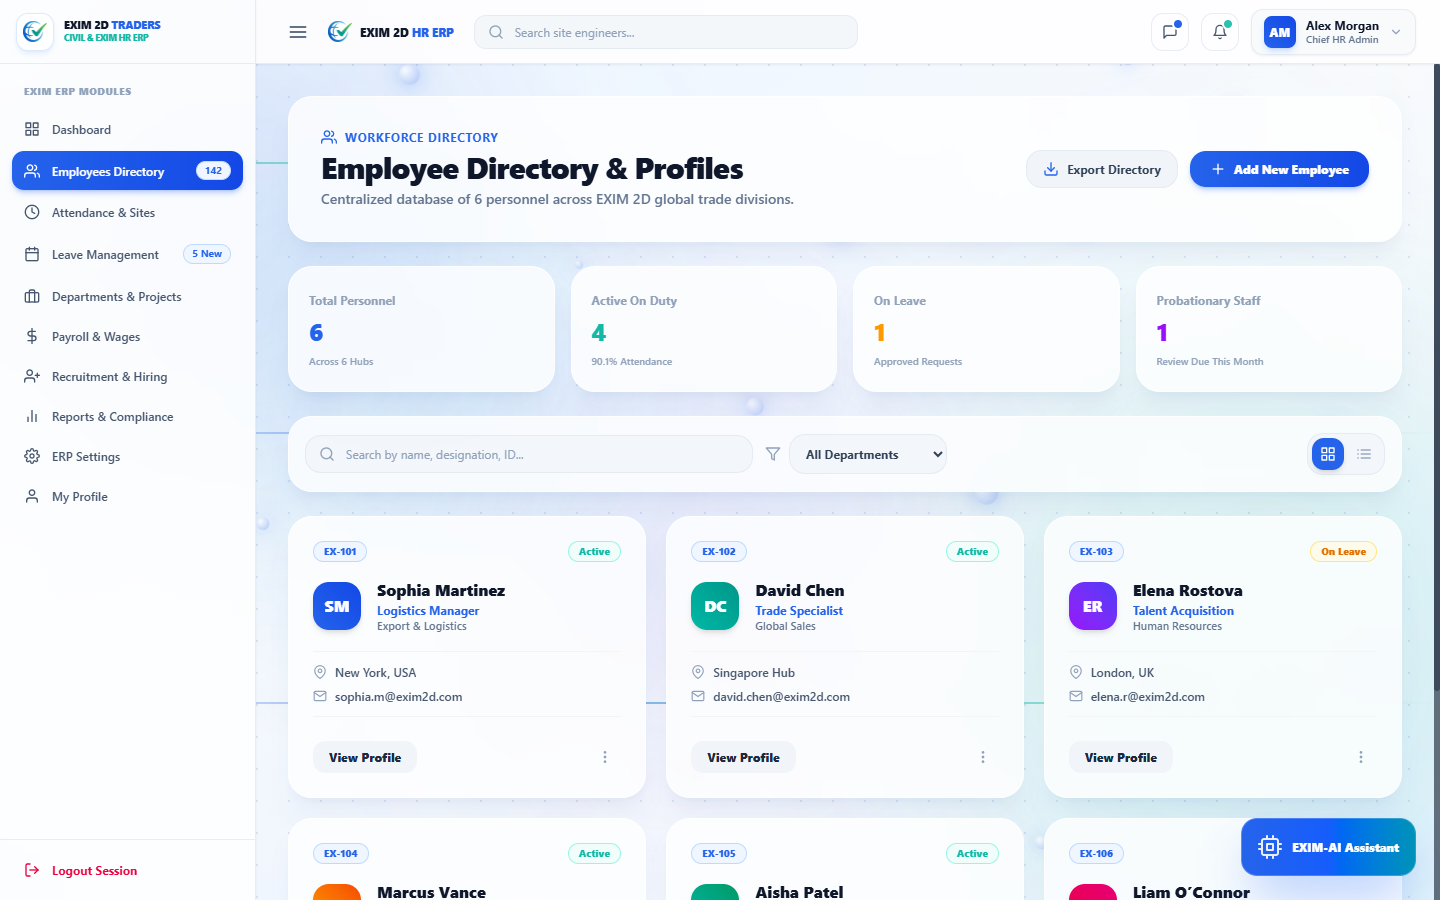
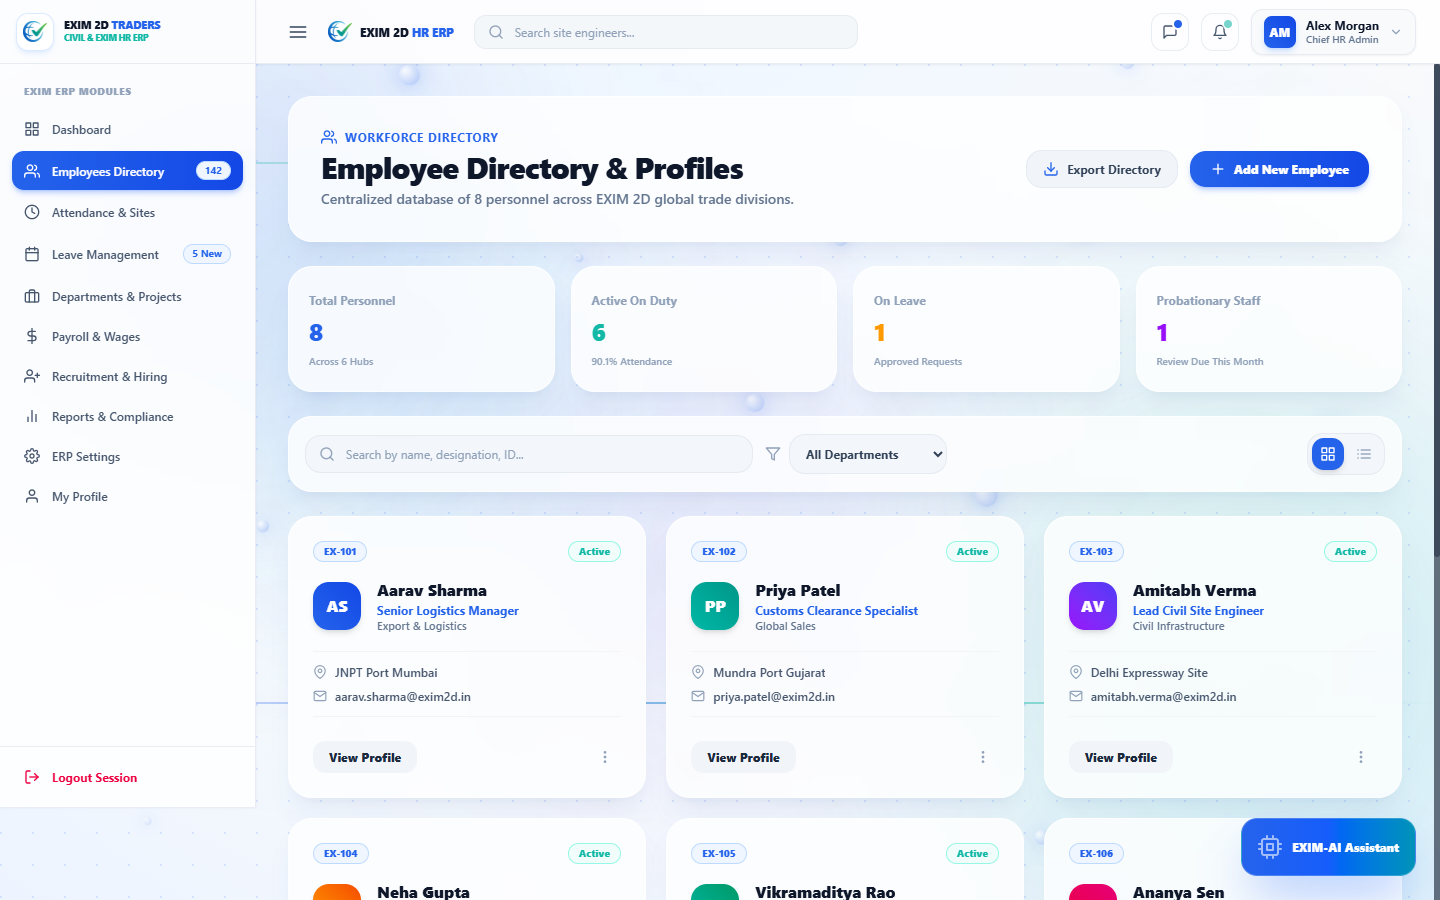
Update workforce records with Indian names and re-capture screenshots

diff --git a/src/pages/Employees.jsx b/src/pages/Employees.jsx
@@ -25,12 +25,14 @@ const Employees = () => {
   const [selectedEmployee, setSelectedEmployee] = useState(null);
 
   const [employeeList, setEmployeeList] = useState([
-    { id: 'EX-101', name: 'Sophia Martinez', role: 'Logistics Manager', dept: 'Export & Logistics', status: 'Active', location: 'New York, USA', email: 'sophia.m@exim2d.com', phone: '+1 555-0192', color: 'from-[#2563EB] to-blue-700' },
-    { id: 'EX-102', name: 'David Chen', role: 'Trade Specialist', dept: 'Global Sales', status: 'Active', location: 'Singapore Hub', email: 'david.chen@exim2d.com', phone: '+1 555-0183', color: 'from-[#14B8A6] to-teal-600' },
-    { id: 'EX-103', name: 'Elena Rostova', role: 'Talent Acquisition', dept: 'Human Resources', status: 'On Leave', location: 'London, UK', email: 'elena.r@exim2d.com', phone: '+1 555-0174', color: 'from-purple-600 to-indigo-600' },
-    { id: 'EX-104', name: 'Marcus Vance', role: 'Senior Accountant', dept: 'Finance & Accounts', status: 'Active', location: 'Dubai, UAE', email: 'marcus.v@exim2d.com', phone: '+1 555-0165', color: 'from-amber-500 to-orange-600' },
-    { id: 'EX-105', name: 'Aisha Patel', role: 'ERP System Analyst', dept: 'IT & Operations', status: 'Active', location: 'Mumbai, IN', email: 'aisha.p@exim2d.com', phone: '+1 555-0156', color: 'from-[#14B8A6] to-emerald-600' },
-    { id: 'EX-106', name: 'Liam O’Connor', role: 'Customs Clearance Specialist', dept: 'Export & Logistics', status: 'Probation', location: 'Rotterdam, NL', email: 'liam.oc@exim2d.com', phone: '+1 555-0147', color: 'from-rose-600 to-pink-600' },
+    { id: 'EX-101', name: 'Aarav Sharma', role: 'Senior Logistics Manager', dept: 'Export & Logistics', status: 'Active', location: 'JNPT Port Mumbai', email: 'aarav.sharma@exim2d.in', phone: '+91 98201 12345', color: 'from-[#2563EB] to-blue-700' },
+    { id: 'EX-102', name: 'Priya Patel', role: 'Customs Clearance Specialist', dept: 'Global Sales', status: 'Active', location: 'Mundra Port Gujarat', email: 'priya.patel@exim2d.in', phone: '+91 98791 23456', color: 'from-[#14B8A6] to-teal-600' },
+    { id: 'EX-103', name: 'Amitabh Verma', role: 'Lead Civil Site Engineer', dept: 'Civil Infrastructure', status: 'Active', location: 'Delhi Expressway Site', email: 'amitabh.verma@exim2d.in', phone: '+91 99102 34567', color: 'from-purple-600 to-indigo-600' },
+    { id: 'EX-104', name: 'Neha Gupta', role: 'Talent Acquisition Lead', dept: 'Human Resources', status: 'Active', location: 'Corporate HQ Delhi', email: 'neha.gupta@exim2d.in', phone: '+91 98113 45678', color: 'from-amber-500 to-orange-600' },
+    { id: 'EX-105', name: 'Vikramaditya Rao', role: 'Marine Freight Lead', dept: 'Export & Logistics', status: 'Active', location: 'Chennai Port Hub', email: 'vikram.rao@exim2d.in', phone: '+91 94440 56789', color: 'from-[#14B8A6] to-emerald-600' },
+    { id: 'EX-106', name: 'Ananya Sen', role: 'Senior Payroll Auditor', dept: 'Finance & Accounts', status: 'On Leave', location: 'Kolkata Logistics Hub', email: 'ananya.sen@exim2d.in', phone: '+91 98300 67890', color: 'from-rose-600 to-pink-600' },
+    { id: 'EX-107', name: 'Rohan Joshi', role: 'ERP Full-Stack Analyst', dept: 'IT & Operations', status: 'Active', location: 'Bengaluru Tech Hub', email: 'rohan.joshi@exim2d.in', phone: '+91 98220 78901', color: 'from-[#2563EB] to-cyan-600' },
+    { id: 'EX-108', name: 'Sneha Iyer', role: 'Structural Safety Inspector', dept: 'Civil Infrastructure', status: 'Probation', location: 'Kochi Terminal', email: 'sneha.iyer@exim2d.in', phone: '+91 94480 89012', color: 'from-teal-600 to-emerald-600' },
   ]);
 
   const [newEmpForm, setNewEmpForm] = useState({

diff --git a/src/pages/employee/CompanyDirectory.jsx b/src/pages/employee/CompanyDirectory.jsx
@@ -6,11 +6,11 @@ const CompanyDirectory = () => {
   const [searchTerm, setSearchTerm] = useState('');
 
   const colleagues = [
-    { name: 'Alex Morgan', role: 'Chief HR Admin', dept: 'Human Resources', location: 'New York HQ', email: 'alex.morgan@exim2d.com', phone: '+1 555-0199', avatar: 'AM', color: 'from-[#2563EB] to-blue-700' },
-    { name: 'David Chen', role: 'Senior Civil Site Engineer', dept: 'Civil Engineering', location: 'Singapore Hub', email: 'david.chen@exim2d.com', phone: '+1 555-0183', avatar: 'DC', color: 'from-[#14B8A6] to-teal-600' },
-    { name: 'Elena Rostova', role: 'Safety Compliance Officer', dept: 'Human Resources', location: 'London, UK', email: 'elena.r@exim2d.com', phone: '+1 555-0174', avatar: 'ER', color: 'from-purple-600 to-indigo-600' },
-    { name: 'Marcus Vance', role: 'Equipment Fleet Accountant', dept: 'Finance & Procurement', location: 'Dubai, UAE', email: 'marcus.v@exim2d.com', phone: '+1 555-0165', avatar: 'MV', color: 'from-amber-500 to-orange-600' },
-    { name: 'Aisha Patel', role: 'ERP System Analyst', dept: 'IT Operations', location: 'Mumbai, IN', email: 'aisha.p@exim2d.com', phone: '+1 555-0156', avatar: 'AP', color: 'from-[#14B8A6] to-emerald-600' },
+    { name: 'Aarav Sharma', role: 'Senior Port Logistics Manager', dept: 'Export & Logistics', location: 'JNPT Port Mumbai', email: 'aarav.sharma@exim2d.in', phone: '+91 98201 12345', avatar: 'AS', color: 'from-[#2563EB] to-blue-700' },
+    { name: 'Priya Patel', role: 'Customs Clearance Specialist', dept: 'Global Trade & Customs', location: 'Mundra Port Gujarat', email: 'priya.patel@exim2d.in', phone: '+91 98791 23456', avatar: 'PP', color: 'from-[#14B8A6] to-teal-600' },
+    { name: 'Amitabh Verma', role: 'Lead Civil Site Engineer', dept: 'Civil Infrastructure', location: 'Delhi Expressway Site', email: 'amitabh.verma@exim2d.in', phone: '+91 99102 34567', avatar: 'AV', color: 'from-purple-600 to-indigo-600' },
+    { name: 'Neha Gupta', role: 'Talent Acquisition Lead', dept: 'Human Resources', location: 'Corporate HQ Delhi', email: 'neha.gupta@exim2d.in', phone: '+91 98113 45678', avatar: 'NG', color: 'from-amber-500 to-orange-600' },
+    { name: 'Rohan Joshi', role: 'ERP Full-Stack Analyst', dept: 'IT & Systems', location: 'Bengaluru Tech Hub', email: 'rohan.joshi@exim2d.in', phone: '+91 98220 78901', avatar: 'RJ', color: 'from-[#14B8A6] to-emerald-600' },
   ];
 
   const filtered = colleagues.filter(c =>

diff --git a/src/pages/Attendance.jsx b/src/pages/Attendance.jsx
@@ -8,11 +8,12 @@ const Attendance = () => {
   const [staffName, setStaffName] = useState('');
 
   const [attendanceLogs, setAttendanceLogs] = useState([
-    { name: 'Sophia Martinez', id: 'EX-101', dept: 'Export Logistics', timeIn: '08:52 AM', timeOut: '06:00 PM', status: 'On Time', hours: '8.5 hrs' },
-    { name: 'David Chen', id: 'EX-102', dept: 'Global Sales', timeIn: '09:05 AM', timeOut: '06:15 PM', status: 'Late', hours: '8.2 hrs' },
-    { name: 'Marcus Vance', id: 'EX-104', dept: 'Finance & Accounts', timeIn: '08:45 AM', timeOut: '05:55 PM', status: 'On Time', hours: '8.5 hrs' },
-    { name: 'Aisha Patel', id: 'EX-105', dept: 'IT Operations', timeIn: '08:58 AM', timeOut: '06:02 PM', status: 'On Time', hours: '8.4 hrs' },
-    { name: 'Liam O’Connor', id: 'EX-106', dept: 'Export Logistics', timeIn: '09:22 AM', timeOut: 'In Progress', status: 'Late', hours: '7.1 hrs' },
+    { name: 'Aarav Sharma', id: 'EX-101', dept: 'Export Logistics', timeIn: '08:52 AM', timeOut: '06:00 PM', status: 'On Time', hours: '8.5 hrs' },
+    { name: 'Priya Patel', id: 'EX-102', dept: 'Global Trade', timeIn: '09:05 AM', timeOut: '06:15 PM', status: 'Late', hours: '8.2 hrs' },
+    { name: 'Amitabh Verma', id: 'EX-103', dept: 'Civil Infrastructure', timeIn: '07:45 AM', timeOut: '05:00 PM', status: 'On Time', hours: '9.0 hrs' },
+    { name: 'Neha Gupta', id: 'EX-104', dept: 'Human Resources', timeIn: '09:28 AM', timeOut: '06:30 PM', status: 'On Time', hours: '8.4 hrs' },
+    { name: 'Vikramaditya Rao', id: 'EX-105', dept: 'Export Logistics', timeIn: '08:40 AM', timeOut: '05:55 PM', status: 'On Time', hours: '8.6 hrs' },
+    { name: 'Rohan Joshi', id: 'EX-107', dept: 'IT Operations', timeIn: '09:55 AM', timeOut: 'In Progress', status: 'Late', hours: '7.1 hrs' },
   ]);
 
   const triggerToast = (msg) => {
